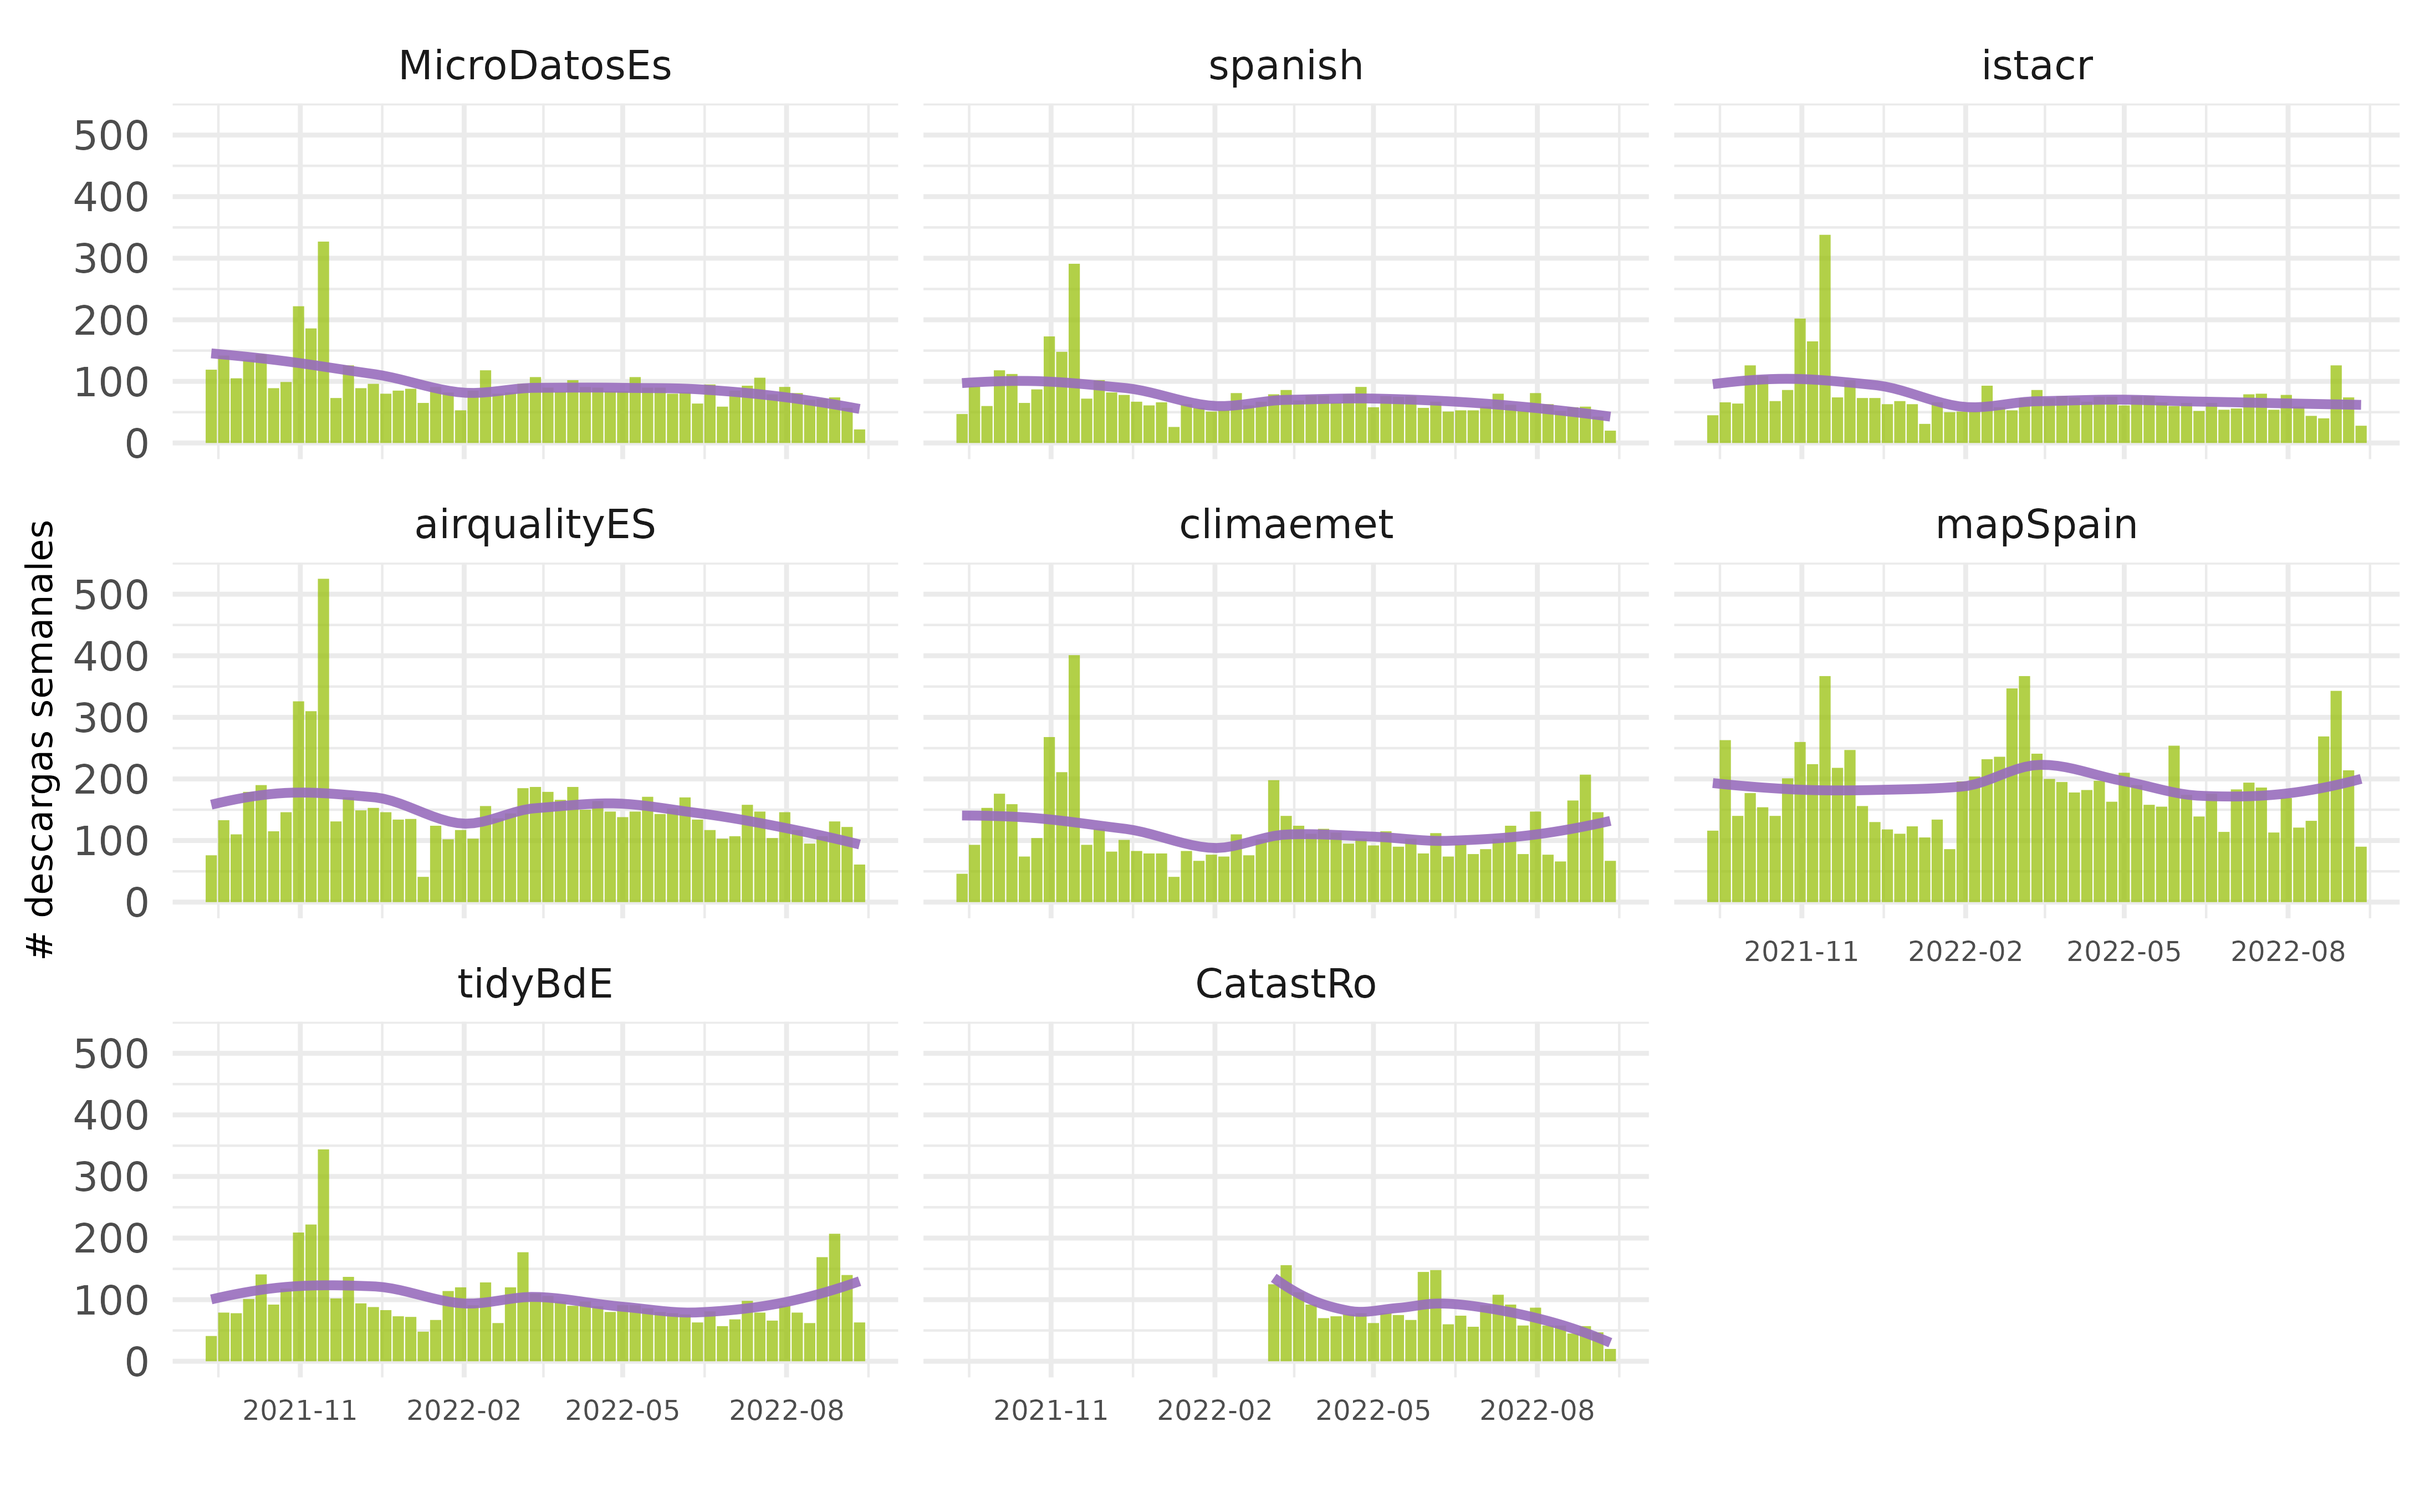
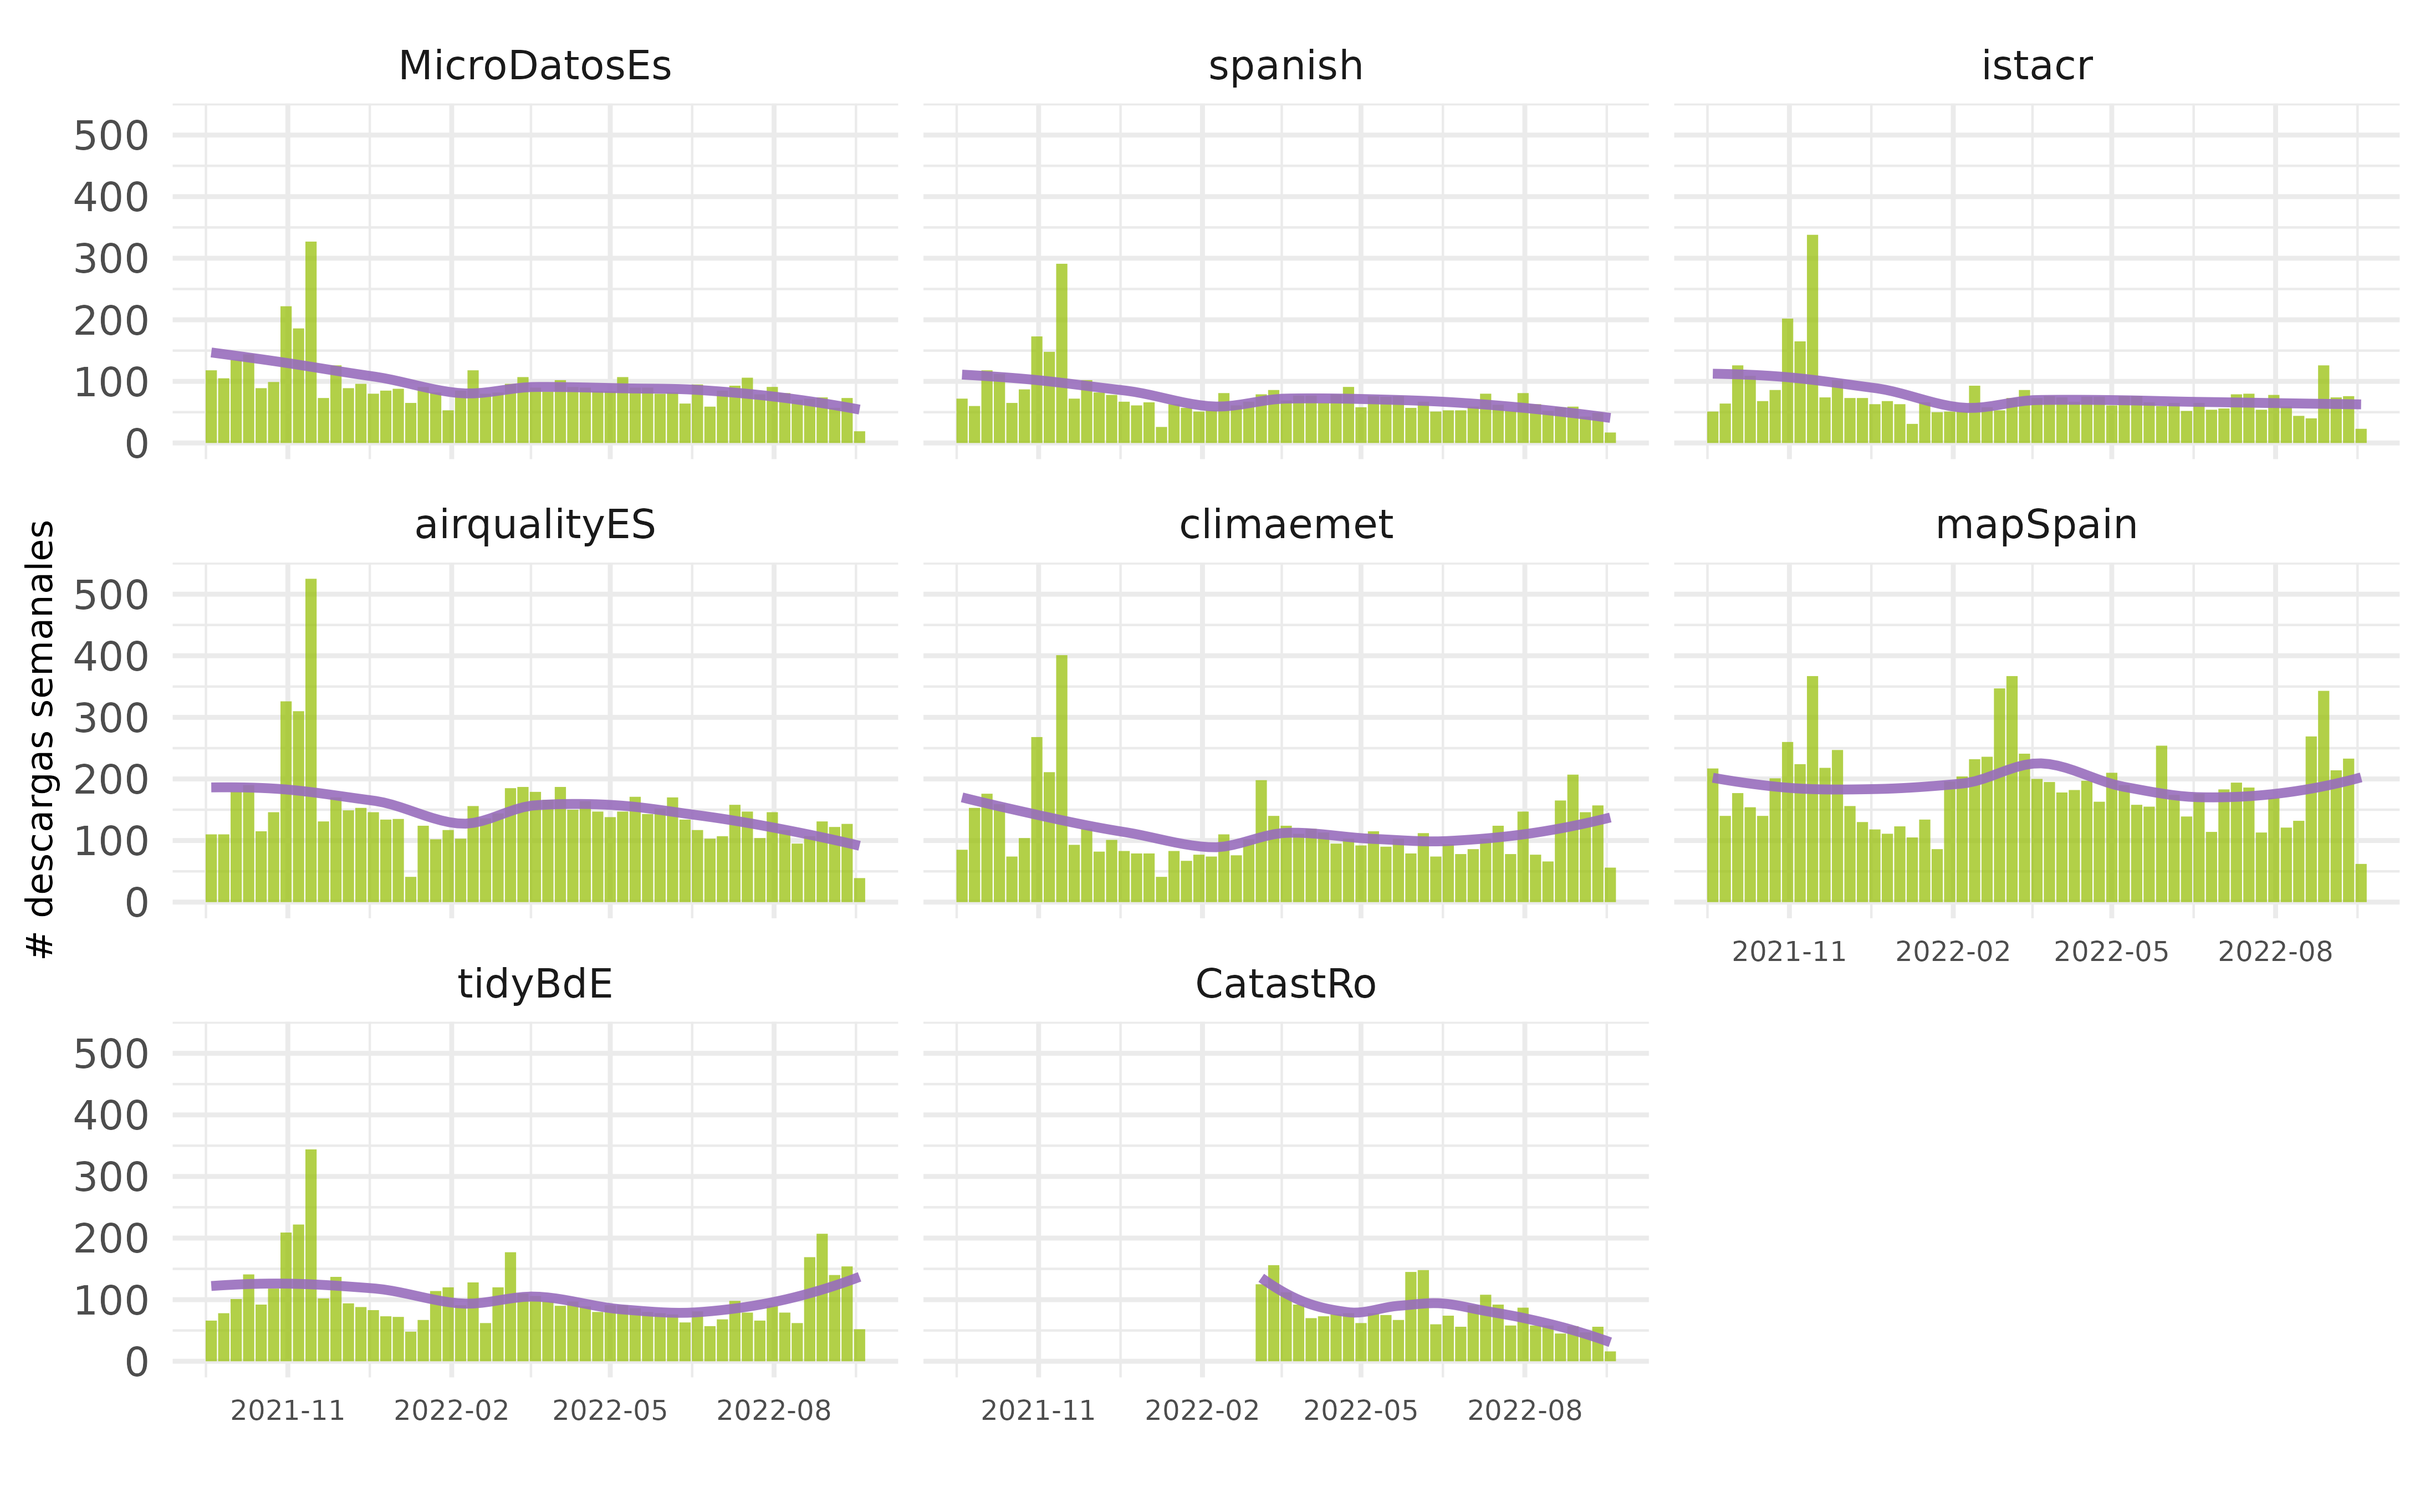
Built site for rostemplate: 0.1.1.9000@9bdd130

diff --git a/articles/descargas.html b/articles/descargas.html
@@ -100,7 +100,7 @@
 
     
     
-<p><em>Fecha de actualización: 08 Sep 2022</em></p>
+<p><em>Fecha de actualización: 13 Sep 2022</em></p>
 <p>Descargas de paquetes de rOpenSpain desde CRAN.</p>
 <div class="section level2">
 <h2 id="total-de-descargas">Total de descargas<a class="anchor" aria-label="anchor" href="#total-de-descargas"></a>
@@ -116,7 +116,7 @@
 <h2 id="datos">Datos<a class="anchor" aria-label="anchor" href="#datos"></a>
 </h2>
 <div id="station-table" class="reactable html-widget" style="width:auto;height:auto;"></div>
-<script type="application/json" data-for="station-table">{"x":{"tag":{"name":"Reactable","attribs":{"data":{"paquete":["CatastRo","tidyBdE","mapSpain","climaemet","airqualityES","istacr","spanish","MicroDatosEs"],"en CRAN":["2022-02-28","2021-04-08","2020-11-30","2020-07-07","2020-02-29","2019-04-24","2017-12-14","2013-10-21"],"media descargas diarias":[11.9,15,23.4,15.5,21.4,13.1,11.6,13.2],"ultimo dia":[8,9,23,15,10,9,6,5],"ultima semana":[40,123,176,132,122,57,40,40],"ultimo mes":[224,641,1044,646,512,311,232,291],"ultimo año":[2268,5494,9992,6057,7986,4130,3998,5185]},"columns":[{"accessor":"paquete","name":"paquete","type":"character"},{"accessor":"en CRAN","name":"en CRAN","type":"Date"},{"accessor":"media descargas diarias","name":"media descargas diarias","type":"numeric"},{"accessor":"ultimo dia","name":"ultimo dia","type":"numeric"},{"accessor":"ultima semana","name":"ultima semana","type":"numeric"},{"accessor":"ultimo mes","name":"ultimo mes","type":"numeric"},{"accessor":"ultimo año","name":"ultimo año","type":"numeric"}],"filterable":true,"searchable":true,"defaultPageSize":10,"showPageSizeOptions":true,"pageSizeOptions":[10,25,50,100],"paginationType":"jump","showPageInfo":true,"minRows":1,"striped":true,"elementId":"station-table","dataKey":"01100193681ea89dd84e4fc3844ec64a"},"children":[]},"class":"reactR_markup"},"evals":[],"jsHooks":[]}</script>
+<script type="application/json" data-for="station-table">{"x":{"tag":{"name":"Reactable","attribs":{"data":{"paquete":["CatastRo","tidyBdE","mapSpain","climaemet","airqualityES","istacr","spanish","MicroDatosEs"],"en CRAN":["2022-02-28","2021-04-08","2020-11-30","2020-07-07","2020-02-29","2019-04-24","2017-12-14","2013-10-21"],"media descargas diarias":[11.8,15.1,23.5,15.6,21.4,13.1,11.6,13.2],"ultimo dia":[16,52,62,56,39,23,17,19],"ultima semana":[60,152,228,161,115,80,52,75],"ultimo mes":[223,732,1140,734,529,342,233,300],"ultimo año":[2320,5583,10035,6149,7992,4141,3977,5112]},"columns":[{"accessor":"paquete","name":"paquete","type":"character"},{"accessor":"en CRAN","name":"en CRAN","type":"Date"},{"accessor":"media descargas diarias","name":"media descargas diarias","type":"numeric"},{"accessor":"ultimo dia","name":"ultimo dia","type":"numeric"},{"accessor":"ultima semana","name":"ultima semana","type":"numeric"},{"accessor":"ultimo mes","name":"ultimo mes","type":"numeric"},{"accessor":"ultimo año","name":"ultimo año","type":"numeric"}],"filterable":true,"searchable":true,"defaultPageSize":10,"showPageSizeOptions":true,"pageSizeOptions":[10,25,50,100],"paginationType":"jump","showPageInfo":true,"minRows":1,"striped":true,"elementId":"station-table","dataKey":"8e83facf92cd499b346c43a3ff927326"},"children":[]},"class":"reactR_markup"},"evals":[],"jsHooks":[]}</script>
 </div>
   </main><aside class="col-md-3"><nav id="toc"><h2>En esta página</h2>
     </nav></aside>
